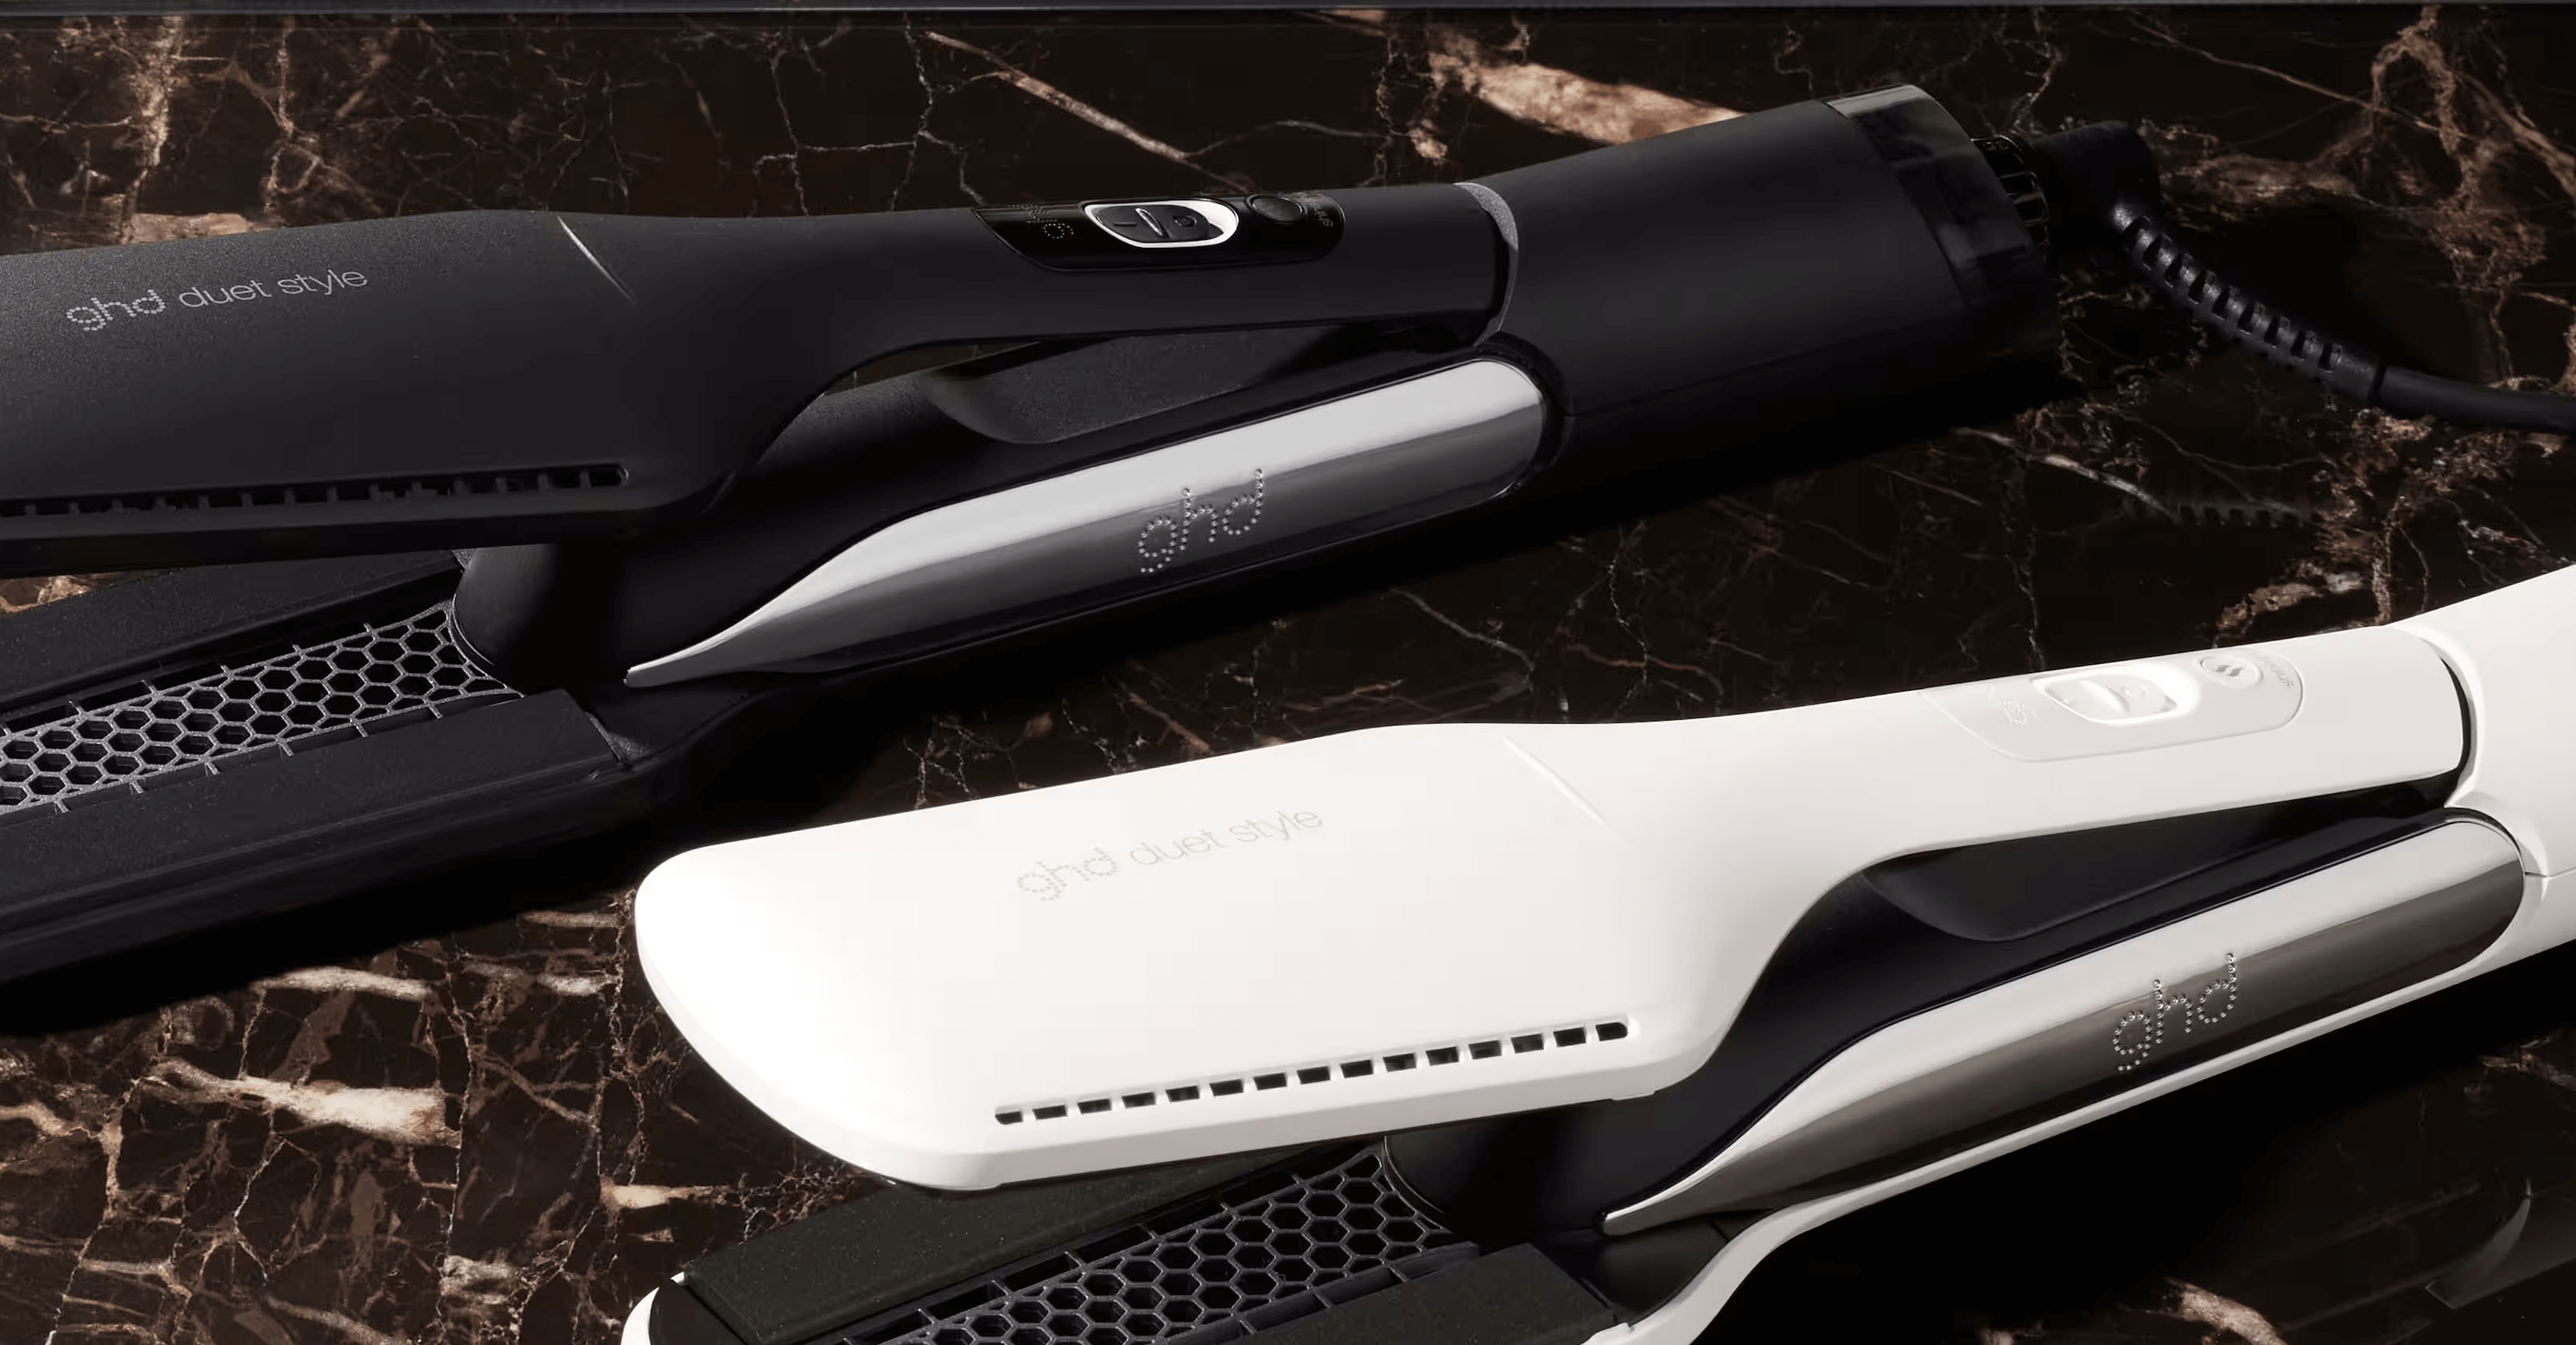
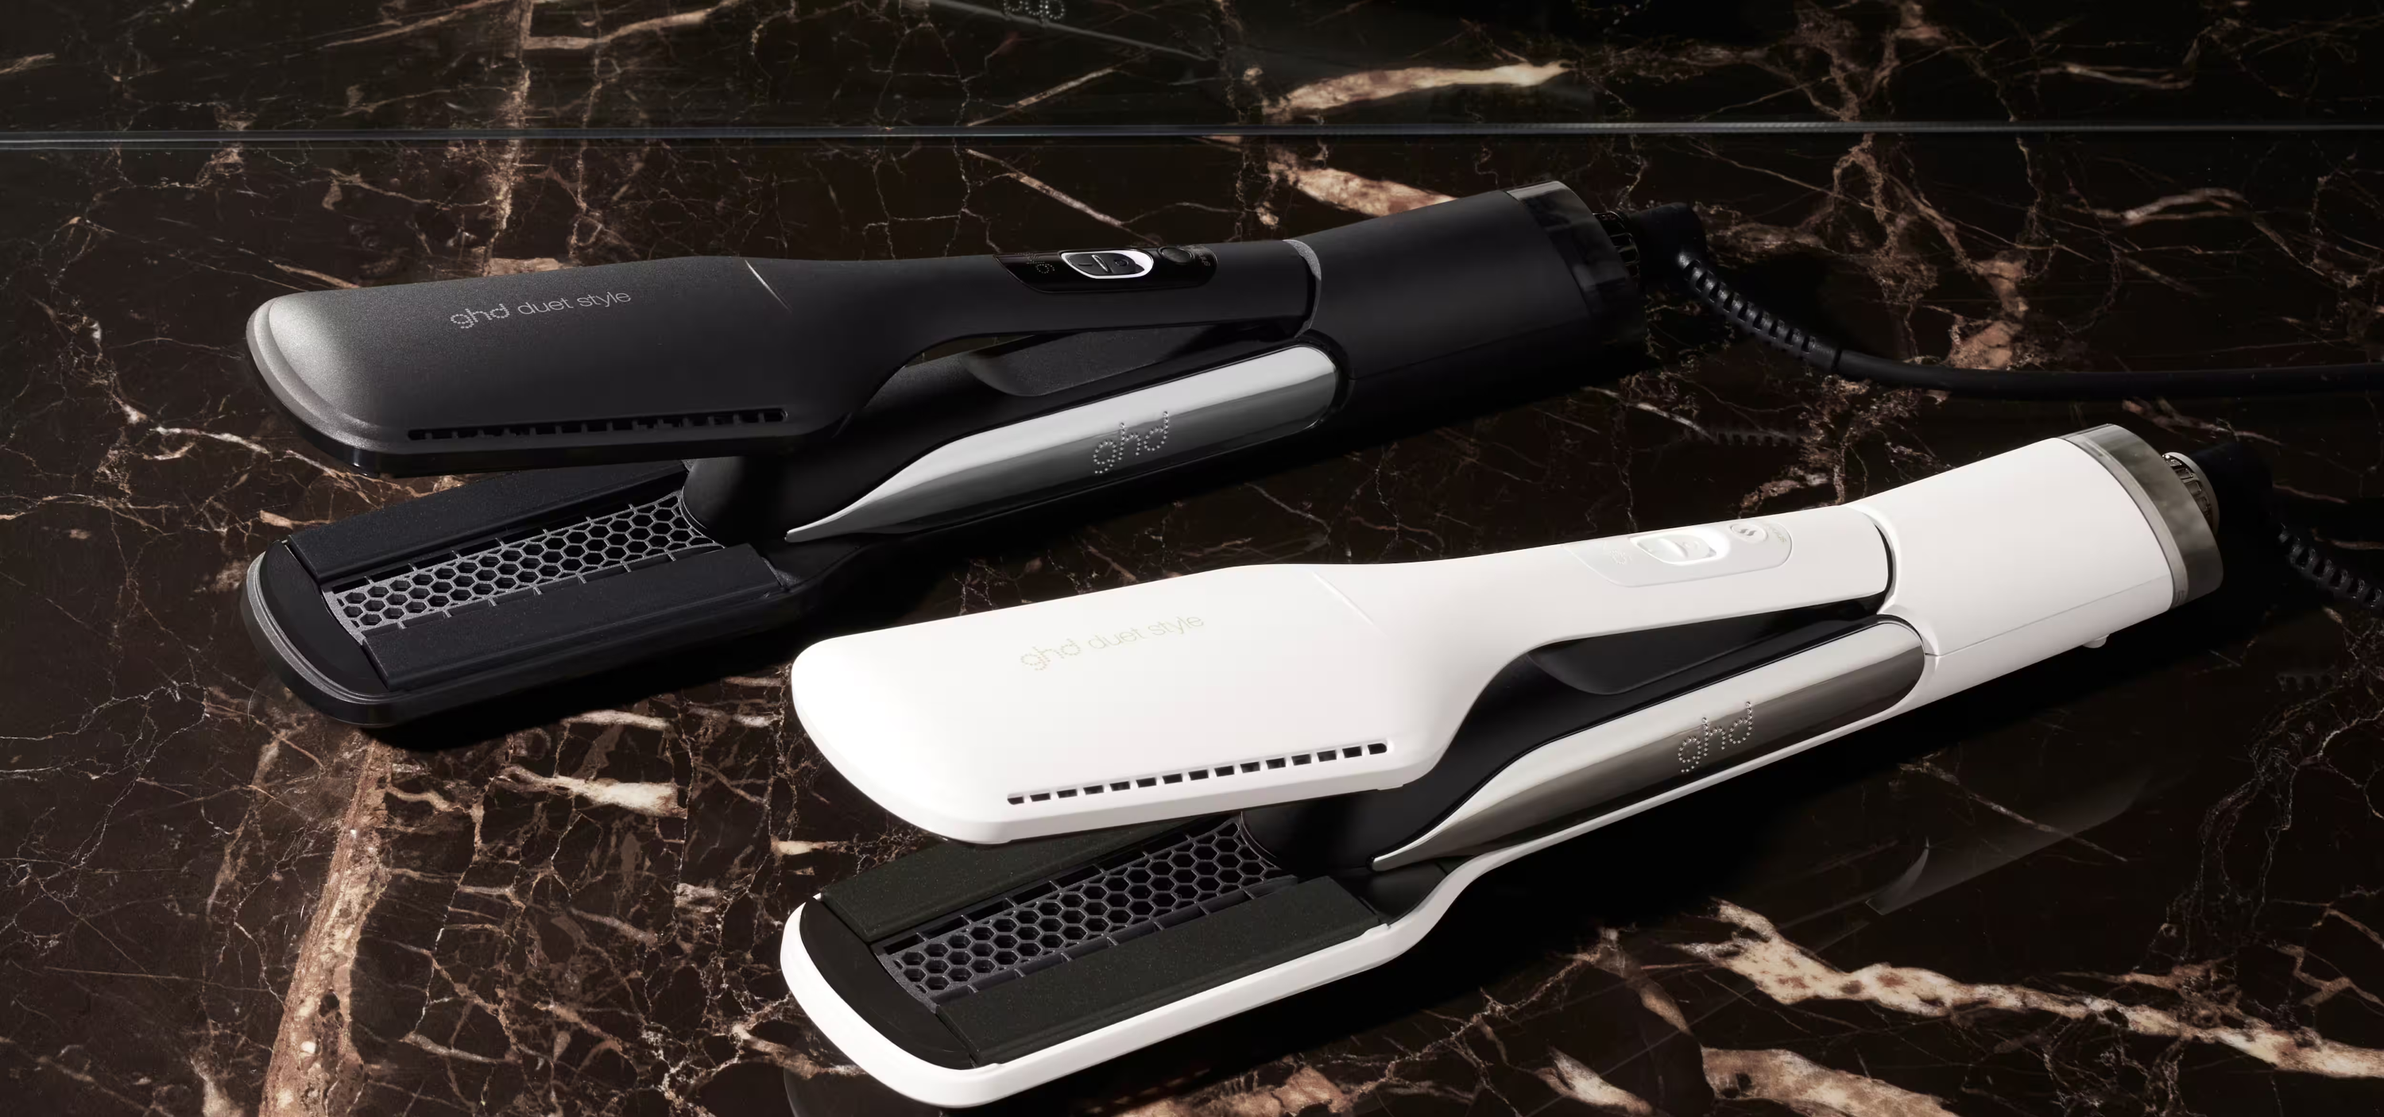
change hero image

diff --git a/src/styles/MainPage.css b/src/styles/MainPage.css
@@ -83,9 +83,6 @@
 }
 
 @media only screen and (max-width: 660px) {
-  .hero-img {
-    background-position: 20% 35%;
-  }
   .hero-content hr {
     width: 80%;
   }
